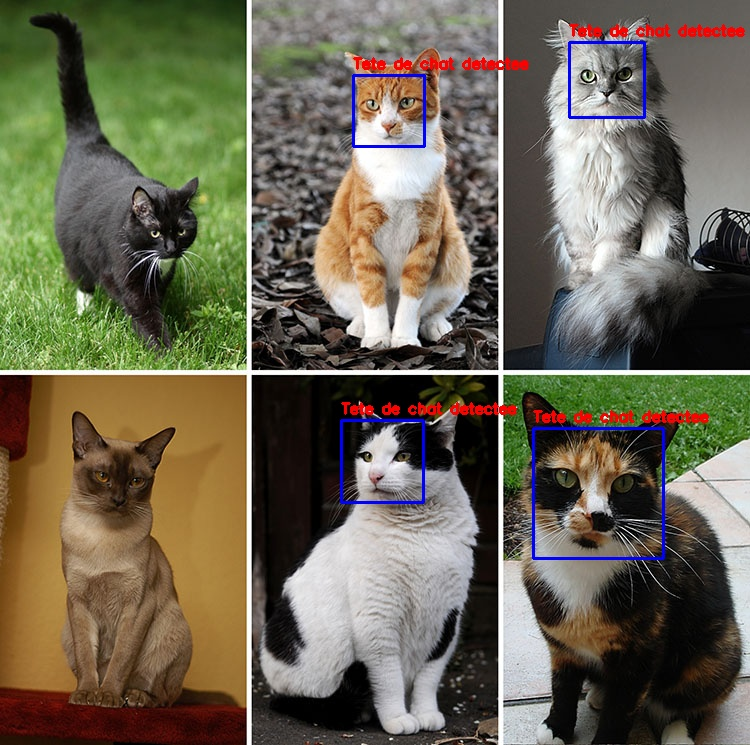
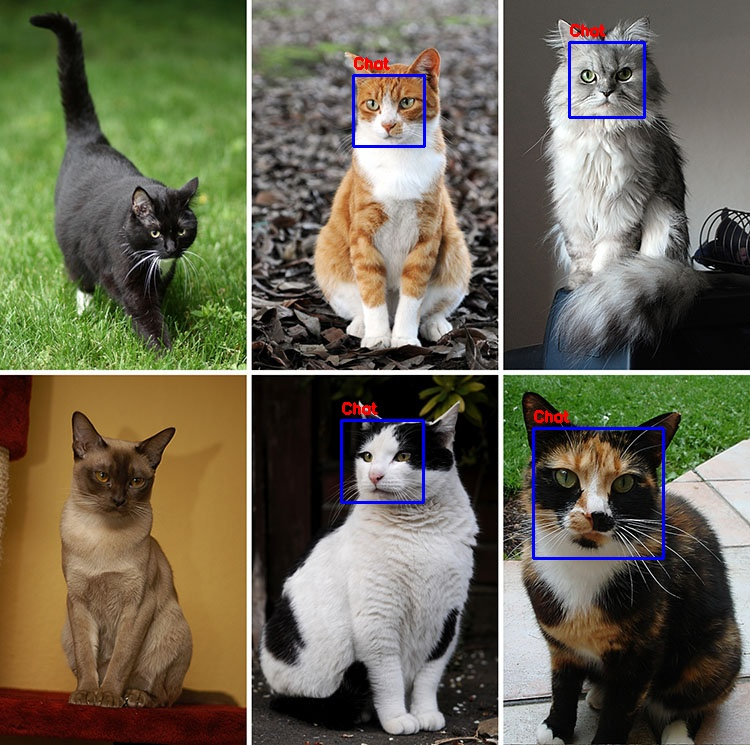
modif cat

diff --git a/AI/chat/chat.py b/AI/chat/chat.py
@@ -16,18 +16,18 @@ if face_cascade.empty():
 else:
     print("file is loaded\n")
 
-faces = face_cascade.detectMultiScale(img_gray, 1.1, 5) #1,1 est le facteur d'échelle et n=5 donne le nombre de detection sur le même endroit
-# on écrit dans la console le nombre de visages que  l'algorithme a détecté
+faces = face_cascade.detectMultiScale(img_gray, 1.1, 5) 
+
 print(f"{len(faces)} visages detectés dans l'image.\n")
 print("Coordonnées des faces détectées:\n")
 print(faces)
-# on dessine un rectangle autour de chaque visage
+
+
 for x, y, width, height in faces:
     cv2.rectangle(img, (x, y), (x + width, y + height), color=(255, 0, 0), thickness=2)
-    cv2.putText(img, 'Tete de chat detectee', (x, y-7),
+    cv2.putText(img, 'Chat', (x, y-7),
     cv2.FONT_HERSHEY_SIMPLEX, 0.5, (0,0,255), 2)
 
-print ("\nC'est tout!")
 
 # on sauvegarde l'image et on l'affiche
 cv2.imwrite("new.jpg", img)
